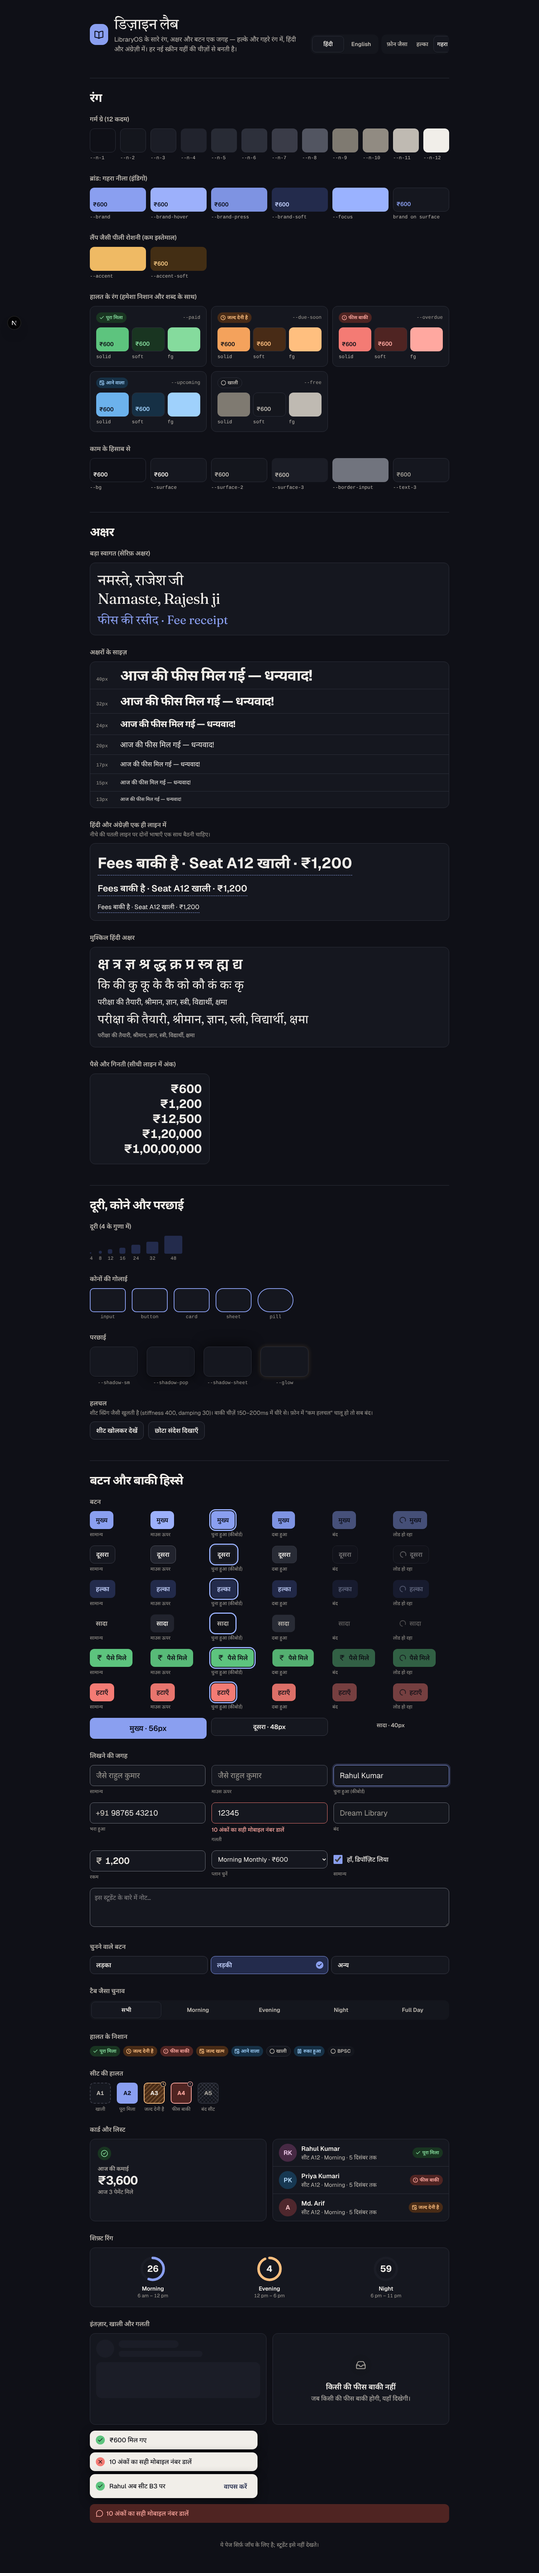
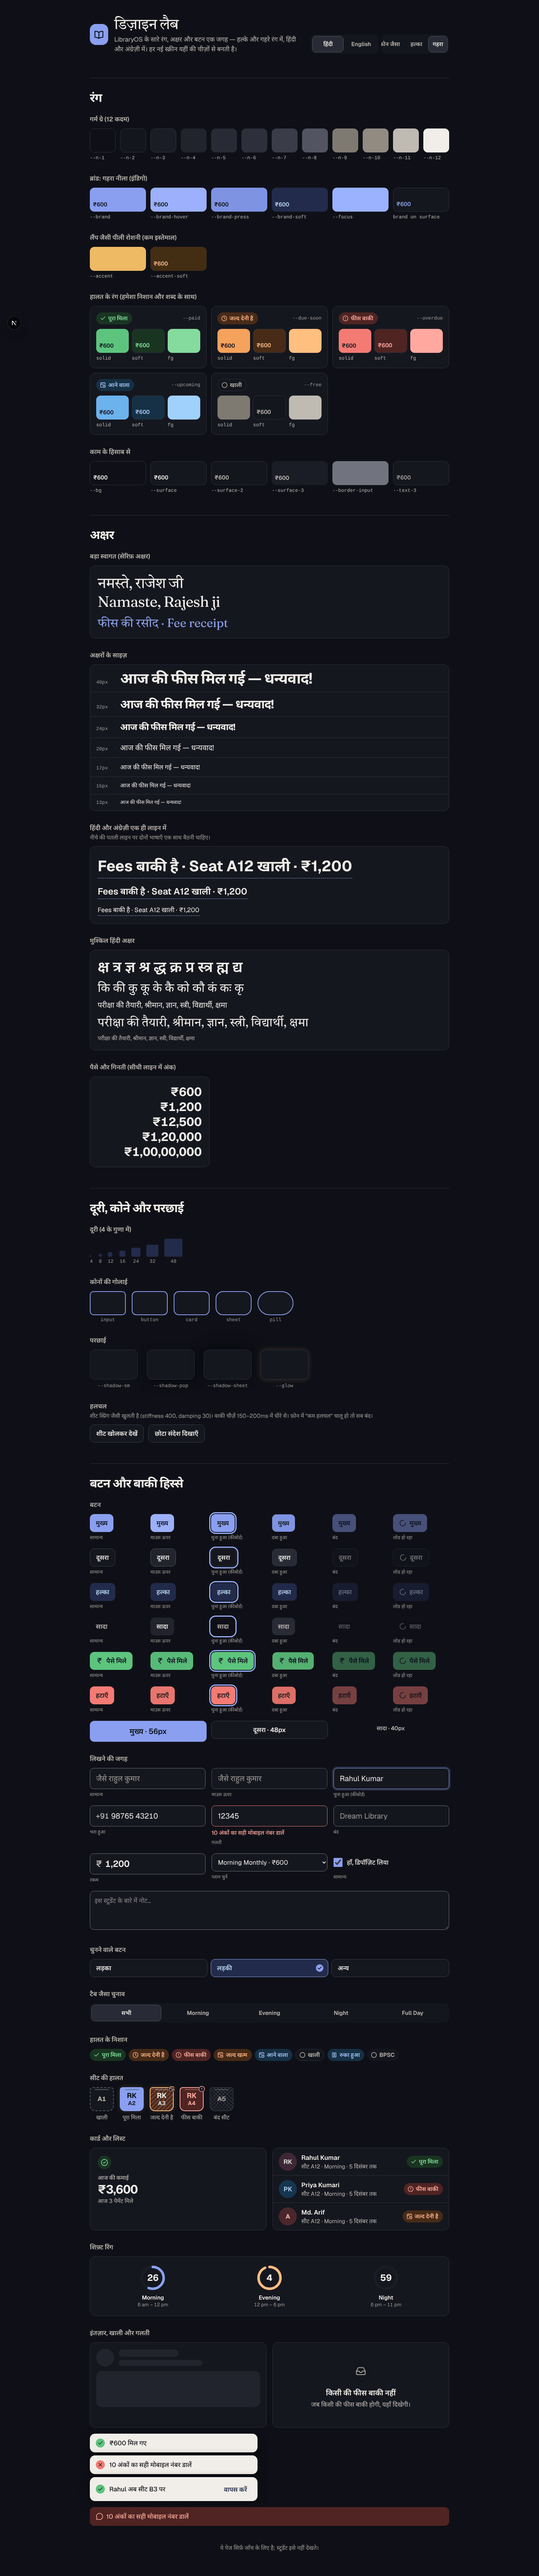
Design verification: two review rounds, owner walkthrough wording, lazy live seats, screenshots
Claude-Session: https://claude.ai/code/session_01KrBbGohSeRt7kibvWmmwMT

diff --git a/src/components/features/seats/seat-map.tsx b/src/components/features/seats/seat-map.tsx
@@ -18,7 +18,6 @@ import { toast } from "@/components/ui/toast";
 import { cn } from "@/lib/cn";
 import { addDays, formatDay, formatMinutesShort, type AppLocale } from "@/lib/dates";
 import { phoneDigits } from "@/lib/phone";
-import { getBrowserClient } from "@/lib/supabase/client";
 
 export { TILE };
 
@@ -69,11 +68,14 @@ function useLiveSeats(libraryId: string) {
   const router = useRouter();
   const [live, setLive] = useState(false);
   useEffect(() => {
-    const supabase = getBrowserClient();
     let timer: ReturnType<typeof setTimeout> | undefined;
-    let channel: ReturnType<typeof supabase.channel> | undefined;
+    let channel: { unsubscribe: () => unknown } | undefined;
     let cancelled = false;
     (async () => {
+      // Loaded after the map is on screen: the live connection is heavy
+      // and the seats don't need it to appear.
+      const { getBrowserClient } = await import("@/lib/supabase/client");
+      const supabase = getBrowserClient();
       // Realtime checks the same security rules as everything else, so it
       // must connect as the logged-in person, not anonymously.
       const { data } = await supabase.auth.getSession();
@@ -91,7 +93,7 @@ function useLiveSeats(libraryId: string) {
     return () => {
       cancelled = true;
       clearTimeout(timer);
-      if (channel) supabase.removeChannel(channel);
+      void channel?.unsubscribe();
     };
   }, [libraryId, router]);
   return live;
@@ -116,7 +118,8 @@ export function SeatMap({
   const live = useLiveSeats(libraryId);
   const [shiftId, setShiftId] = useState<string>(ALL);
   const [heat, setHeat] = useState(false);
-  const [zoom, setZoom] = useState(0);
+  // Start big enough to tap (48px+); "−" shows the whole hall at once.
+  const [zoom, setZoom] = useState(1);
   const [openSeat, setOpenSeat] = useState<string | null>(null);
   const [moving, setMoving] = useState<{ occupant: MapOccupant; fromSeat: MapSeat } | null>(null);
   const [flash, setFlash] = useState<Set<string>>(() => new Set());
@@ -207,7 +210,7 @@ export function SeatMap({
           aria-pressed={heat}
           onClick={() => setHeat(!heat)}
           disabled={Boolean(moving)}
-          className="h-11"
+          className="h-12"
         >
           <Flame aria-hidden />
           {t("heatmap")}
@@ -219,6 +222,9 @@ export function SeatMap({
               {t("live")}
             </span>
           ) : null}
+          <span className="text-[15px] text-text-2" aria-hidden>
+            {t("sizeWord")}
+          </span>
           <div className="flex items-center rounded-[12px] border border-border-strong bg-surface" role="group" aria-label={t("zoom")}>
             <button
               type="button"
@@ -248,14 +254,14 @@ export function SeatMap({
         <div className="sticky top-2 z-30 mt-3 flex items-center gap-3 rounded-[14px] bg-text px-4 py-3 text-bg shadow-[var(--shadow-pop)]" role="status">
           <ArrowRightLeft className="size-5 shrink-0" aria-hidden />
           <p className="flex-1 text-base font-medium">{t("moveBanner", { name: moving.occupant.studentName })}</p>
-          <button type="button" onClick={() => setMoving(null)} className="flex h-11 items-center gap-1 rounded-[10px] px-2 font-semibold">
+          <button type="button" onClick={() => setMoving(null)} className="flex h-12 items-center gap-1 rounded-[10px] px-2 font-semibold">
             <X className="size-5" aria-hidden />
             {t("cancelMove")}
           </button>
         </div>
       ) : null}
 
-      <div className="mt-4 grid gap-4 xl:grid-cols-2">
+      <div className="mt-4 grid min-w-0 grid-cols-1 gap-4 xl:grid-cols-2">
         {computed.map(({ zone, seats, free, total }) => {
           const xs = seats.map((s) => s.seat.x);
           const cols = Math.max(...xs) + 1;
@@ -265,7 +271,7 @@ export function SeatMap({
           return (
             <section
               key={zone.id ?? "none"}
-              className="-mx-2 rounded-[20px] border border-border bg-surface p-3 shadow-sm sm:mx-0 sm:p-5"
+              className="-mx-2 min-w-0 rounded-[20px] border border-border bg-surface p-3 shadow-sm sm:mx-0 sm:p-5"
               aria-label={zone.name || t("title")}
             >
               <header className="mb-4 flex items-center gap-3 px-1">

diff --git a/src/components/features/money/fees-inbox.tsx b/src/components/features/money/fees-inbox.tsx
@@ -1,6 +1,6 @@
 "use client";
 
-import { AlertCircle, BellRing, CircleCheck, Clock, EllipsisVertical, IndianRupee, Loader2, MessageCircle, RefreshCw, X } from "lucide-react";
+import { AlertCircle, BellRing, CircleCheck, Clock, IndianRupee, Loader2, MessageCircle, RefreshCw, X } from "lucide-react";
 import Link from "next/link";
 import { useRouter } from "next/navigation";
 import { useLocale, useTranslations } from "next-intl";
@@ -121,7 +121,7 @@ export function FeesInbox({
           <Button
             variant={selecting ? "soft" : "secondary"}
             size="sm"
-            className="h-11"
+            className="h-12"
             onClick={() => {
               setSelecting(!selecting);
               setSelected([]);
@@ -216,18 +216,18 @@ export function FeesInbox({
                               <Button
                                 size="sm"
                                 variant="success"
-                                className="h-10 flex-1"
+                                className="h-12 flex-1 text-[15px]"
                                 onClick={() => setPay({ invoiceId: inv.id, studentId: inv.studentId, studentName: inv.studentName, phone: inv.phone, owedPaise: inv.owed })}
                               >
                                 <IndianRupee aria-hidden />
                                 {t("recordPaid")}
                               </Button>
-                              <Button size="sm" variant="secondary" className="h-10 flex-1" onClick={() => remind(inv)}>
+                              <Button size="sm" variant="secondary" className="h-12 flex-1 text-[15px]" onClick={() => remind(inv)}>
                                 <MessageCircle aria-hidden />
                                 {t("remind")}
                               </Button>
-                              <Button size="sm" variant="ghost" className="h-10 w-10 px-0" aria-label={t("moreActions")} onClick={() => setSnoozeFor(inv)}>
-                                <EllipsisVertical aria-hidden />
+                              <Button size="sm" variant="ghost" className="h-12 px-3 text-[15px]" aria-label={t("moreActions")} onClick={() => setSnoozeFor(inv)}>
+                                {t("laterShort")}
                               </Button>
                             </div>
                           ) : null}
@@ -261,11 +261,11 @@ export function FeesInbox({
                     <p className="text-sm font-medium text-info">{t("endsIn", { days: Math.max(0, daysBetween(today, p.endDate)) })}</p>
                     <p className="truncate text-sm text-text-2">{[p.planName, p.seatLabel, formatDay(p.endDate, locale)].filter(Boolean).join(" · ")}</p>
                     <div className="mt-2.5 flex gap-2 sm:max-w-md">
-                      <Button size="sm" variant="soft" className="h-10 flex-1" disabled={busy} onClick={() => renew(p)}>
+                      <Button size="sm" variant="soft" className="h-12 flex-1 text-[15px]" disabled={busy} onClick={() => renew(p)}>
                         {busy ? <Loader2 className="animate-spin" aria-hidden /> : <RefreshCw aria-hidden />}
                         {t("renew")}
                       </Button>
-                      <Button size="sm" variant="secondary" className="h-10 flex-1" onClick={() => remindEnding(p)}>
+                      <Button size="sm" variant="secondary" className="h-12 flex-1 text-[15px]" onClick={() => remindEnding(p)}>
                         <MessageCircle aria-hidden />
                         {t("remind")}
                       </Button>

diff --git a/src/components/features/join/requests-inbox.tsx b/src/components/features/join/requests-inbox.tsx
@@ -68,7 +68,7 @@ export function RequestsInbox({ requests, data, existingPhones }: { requests: Jo
             <h1 className="text-2xl font-bold tracking-tight">{t("title")}</h1>
             <p className="mt-1 text-base text-text-2">{t("subtitle", { count: requests.length })}</p>
           </div>
-          <Link href="/more/join" className={buttonVariants({ variant: "secondary", size: "sm", className: "h-11" })}>
+          <Link href="/more/join" className={buttonVariants({ variant: "secondary", size: "sm", className: "h-12" })}>
             <QrCode aria-hidden />
             {t("openQr")}
           </Link>
@@ -118,13 +118,13 @@ export function RequestsInbox({ requests, data, existingPhones }: { requests: Jo
               </div>
               <div className="mt-3 flex flex-wrap gap-1.5">
                 {p.problems.length === 0 ? (
-                  <span className="inline-flex h-7 items-center gap-1 rounded-full bg-success-soft px-2.5 text-xs font-semibold text-success">
+                  <span className="inline-flex h-8 items-center gap-1 rounded-full bg-success-soft px-2.5 text-sm font-semibold text-success">
                     <CircleCheck className="size-3.5" aria-hidden />
                     {t("allClear")}
                   </span>
                 ) : (
                   p.problems.map((x) => (
-                    <span key={x} className="inline-flex h-7 items-center gap-1 rounded-full bg-warning-soft px-2.5 text-xs font-semibold text-warning">
+                    <span key={x} className="inline-flex h-8 items-center gap-1 rounded-full bg-warning-soft px-2.5 text-sm font-semibold text-warning">
                       <AlertCircle className="size-3.5" aria-hidden />
                       {t(`p_${x}`)}
                     </span>

diff --git a/src/components/features/today/attention-list.tsx b/src/components/features/today/attention-list.tsx
@@ -83,13 +83,13 @@ export function AttentionList({
               <Avatar name={r.name} className="size-11 text-[15px]" />
               <span className="min-w-0">
                 <span className="block truncate text-base font-semibold">{r.name}</span>
-                <span className={r.kind === "overdue" ? "flex items-center gap-1 text-[15px] text-danger" : "flex items-center gap-1 text-[15px] text-warning"}>
-                  {r.kind === "overdue" ? <AlertCircle className="size-4 shrink-0" aria-hidden /> : <CalendarClock className="size-4 shrink-0" aria-hidden />}
-                  <span className="truncate tabular">{r.line}</span>
+                <span className={r.kind === "overdue" ? "flex items-start gap-1 text-[15px] leading-snug text-danger" : "flex items-start gap-1 text-[15px] leading-snug text-warning"}>
+                  {r.kind === "overdue" ? <AlertCircle className="mt-0.5 size-4 shrink-0" aria-hidden /> : <CalendarClock className="mt-0.5 size-4 shrink-0" aria-hidden />}
+                  <span className="tabular">{r.line}</span>
                 </span>
               </span>
             </Link>
-            <Button variant="secondary" size="sm" className="h-11 shrink-0" onClick={r.send}>
+            <Button variant="secondary" size="sm" className="h-12 shrink-0 text-[15px]" onClick={r.send}>
               <MessageCircle aria-hidden />
               {t("remind")}
             </Button>

diff --git a/src/components/features/seats/seat-tile.tsx b/src/components/features/seats/seat-tile.tsx
@@ -60,8 +60,8 @@ export function SeatTile({
       <span aria-hidden className="absolute top-[3px] right-[18%] left-[18%] h-[3px] rounded-full bg-current opacity-30" />
       {showInitials ? (
         <>
-          <span className="text-[clamp(13px,38cqw,22px)] leading-none font-bold">{initials}</span>
-          <span className="mt-[2px] text-[clamp(10px,22cqw,13px)] leading-none font-semibold opacity-80">{label}</span>
+          <span className="text-[clamp(12px,30cqw,19px)] leading-none font-bold">{initials}</span>
+          <span className="mt-[3px] text-[clamp(11px,26cqw,15px)] leading-none font-bold opacity-90">{label}</span>
         </>
       ) : (
         <span className={cn("text-[clamp(12px,30cqw,17px)] leading-none font-bold", state === "inactive" && "line-through")}>{label}</span>

diff --git a/src/components/ui/segmented.tsx b/src/components/ui/segmented.tsx
@@ -61,7 +61,7 @@ export function Segmented<T extends string>({
     >
       <span
         aria-hidden
-        className="pointer-events-none absolute top-1 bottom-1 left-0 rounded-[10px] border border-border bg-surface shadow-sm transition-[transform,width,opacity] duration-[420ms] ease-[cubic-bezier(0.34,1.36,0.64,1)] motion-reduce:transition-none"
+        className="pointer-events-none absolute top-1 bottom-1 left-0 rounded-[10px] border border-border bg-surface shadow-sm dark:border-border-heavy dark:bg-surface-press transition-[transform,width,opacity] duration-[420ms] ease-[cubic-bezier(0.34,1.36,0.64,1)] motion-reduce:transition-none"
         style={{ transform: `translateX(${pill?.x ?? 0}px)`, width: pill?.w ?? 0, opacity: pill ? 1 : 0 }}
       />
       {options.map((o) => {

diff --git a/src/components/features/students/student-list.tsx b/src/components/features/students/student-list.tsx
@@ -134,9 +134,9 @@ export function StudentList({
                     </p>
                     <p className="truncate text-sm text-text-3 tabular">
                       {s.endDate
-                        ? `${ended ? t("endedOn", { date: formatDay(s.endDate, locale) }) : t("endsOn", { date: formatDay(s.endDate, locale) })} · `
+                        ? `${ended ? t("endedOn", { date: formatDay(s.endDate, locale) }) : t("endsOn", { date: formatDay(s.endDate, locale) })}`
                         : ""}
-                      {formatMobile(s.phone)}
+                      <span className="hidden sm:inline">{s.endDate ? " · " : ""}{formatMobile(s.phone)}</span>
                     </p>
                   </div>
                   {s.status === "left" ? (

diff --git a/tests/e2e/admit.spec.ts b/tests/e2e/admit.spec.ts
@@ -47,7 +47,7 @@ test("an existing student's number offers renewal instead of a duplicate", async
   await login(page, "9999900001");
   await page.goto("/students");
   // Take a real, active student's number from the list.
-  const phoneText = await page.locator("main ul li").first().locator("p.tabular").innerText();
+  const phoneText = await page.locator("main ul li").first().locator("p.tabular").textContent() ?? "";
   const digits = phoneText.replace(/\D/g, "").slice(-10);
 
   await page.getByRole("button", { name: "नया स्टूडेंट" }).filter({ visible: true }).click();

diff --git a/src/components/ui/toast.tsx b/src/components/ui/toast.tsx
@@ -16,7 +16,8 @@ export function toast(message: string, opts: { tone?: Toast["tone"]; action?: To
   const t: Toast = { id: nextId++, message, tone: opts.tone ?? "success", action: opts.action };
   toasts = [...toasts.slice(-2), t];
   emit();
-  if (t.tone === "success") navigator.vibrate?.(15);
+  // A small buzz only in answer to something the person just did (not tips on page open).
+  if (t.tone === "success" && navigator.userActivation?.hasBeenActive) navigator.vibrate?.(15);
   return t.id;
 }
 

diff --git a/tests/e2e/login.spec.ts b/tests/e2e/login.spec.ts
@@ -51,6 +51,6 @@ test("desk staff never see rupee totals on Today", async ({ page }) => {
 test("logging out returns to welcome", async ({ page }) => {
   await login(page, "9999900002");
   await page.goto("/more");
-  await page.getByRole("button", { name: "लॉग आउट" }).click();
+  await page.getByRole("button", { name: /लॉग आउट/ }).click();
   await expect(page).toHaveURL(/\/welcome$/);
 });

diff --git a/src/app/(app)/more/page.tsx b/src/app/(app)/more/page.tsx
@@ -33,7 +33,7 @@ export default async function MorePage() {
     : null;
 
   return (
-    <div className="flex flex-col gap-6">
+    <div className="flex max-w-2xl flex-col gap-6">
       <PageHeader title={t("title")} />
 
       <Card className="-mt-2 flex items-center gap-4 p-4">

diff --git a/src/components/features/admit/admit-flow.tsx b/src/components/features/admit/admit-flow.tsx
@@ -289,7 +289,6 @@ export function AdmitFlow({ open, onOpenChange, prefill }: { open: boolean; onOp
       setResult(res);
       if (paying > 0) paymentFeedback();
       setStep("done");
-      navigator.vibrate?.([20, 40, 20]);
       router.refresh();
     });
   }
